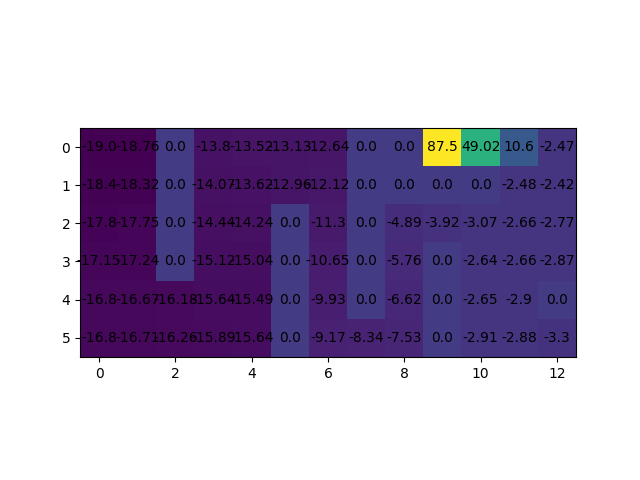
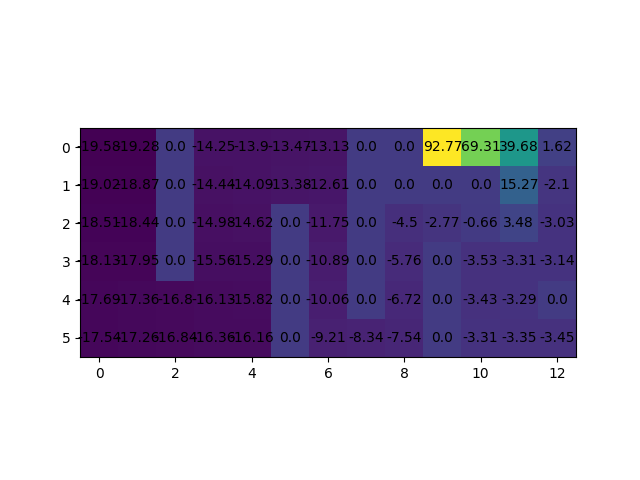
adding and running multirun tests for maze

diff --git a/Q-Learning_Maze/qlearning.py b/Q-Learning_Maze/qlearning.py
@@ -9,6 +9,7 @@ num_episodes = 500
 eps = 0.01
 testing_iter = 1000
 Map = MAP4
+num_runs = 20
 
 
 
@@ -71,60 +72,64 @@ if __name__ == "__main__":
 
     env = GridWorld(Map)
     num_states = env.get_num_states()
-    qlearning = QLearning(num_states, env.get_num_actions(), alpha=alpha)
-    success_rate_list = []
-    first_state_Qs = []
-
     episodes_to_save_Q = [0, 10, 100, 250, 500]
-    episodes_to_save_success_rate = list(range(0, num_episodes+1, 10))
-    for i in range(num_episodes + 1):
+    episodes_to_save_success_rate = list(range(0, num_episodes + 1, 10))
 
-        done = False
-        state = env.reset()
+    success_rate_list = np.zeros((num_runs, len(episodes_to_save_success_rate)))
+    first_state_Qs = np.zeros((len(episodes_to_save_Q), num_runs, num_states))
 
-        first_state_Q = np.max(qlearning.Q[state])
-        first_state_Qs.append(first_state_Q)
+    for run in range(num_runs):
+        print("Run:",run+1)
 
-        max_next_action, _ = optimal_policy(qlearning.Q, state)
-        while not done:
-
-            #Epsilon greedy policy
-            random_action = np.random.choice(env.get_num_actions())
-            action = np.random.choice([max_next_action, random_action], p= [1-eps, eps])
-
-            #Step
-            next_state, reward, done = env.step(action)
-
-            #Q update
-            max_next_action = qlearning.update(state, action, reward, next_state, done)
+        qlearning = QLearning(num_states, env.get_num_actions(), alpha=alpha)
 
 
-            state = next_state
+        for i in range(num_episodes + 1):
 
-        if i in episodes_to_save_Q:
-            currentQ_flattened = np.zeros((num_states))
-            for state in range(num_states):
-                currentQ_flattened[state] = np.max(qlearning.Q[state])
-            currentQ = currentQ_flattened.reshape((env.n_rows, env.n_cols)).round(decimals=2)
+            done = False
+            state = env.reset()
 
-            for (m, l), label in np.ndenumerate(currentQ):
-                plt.text(l, m, label, ha='center', va='center')
-            plt.imshow(currentQ)
-            plt.savefig('results/QFunction/QFunction_After_{}_Episodes'.format(i))
+            max_next_action, _ = optimal_policy(qlearning.Q, state)
+            while not done:
 
-            plt.show()
-            plt.close()
+                #Epsilon greedy policy
+                random_action = np.random.choice(env.get_num_actions())
+                action = np.random.choice([max_next_action, random_action], p= [1-eps, eps])
+
+                #Step
+                next_state, reward, done = env.step(action)
+
+                #Q update
+                max_next_action = qlearning.update(state, action, reward, next_state, done)
 
 
-        if i in episodes_to_save_success_rate:
-            print(i)
-            # evaluate the greedy policy to see how well it performs
-            frac = evaluate_greedy_policy(qlearning, env, testing_iter)
-            success_rate_list.append(frac)
-            print("Finding goal " + str(frac) + "% of the time.")
+                state = next_state
 
-    #This code is for plotting returns of the training policy on map 3
-    plt.plot(range(len(success_rate_list)), success_rate_list)
+            #Recording max qfunction
+            if i in episodes_to_save_Q:
+                first_state_Qs[episodes_to_save_Q.index(i), run] = np.max(qlearning.Q, axis=1)
+
+            #Recording the success rates
+            if i in episodes_to_save_success_rate:
+                # evaluate the greedy policy to see how well it performs
+                frac = evaluate_greedy_policy(qlearning, env, testing_iter)
+                success_rate_list[run][i//10] = frac
+
+    #PLotting average qfunction at each episode in 'episodes_to_save_Q'
+    for i in range(len(episodes_to_save_Q)):
+        currentQ = np.mean(first_state_Qs[i], axis=0).reshape((env.n_rows, env.n_cols)).round(decimals=2)
+
+        for (m, l), label in np.ndenumerate(currentQ):
+            plt.text(l, m, label, ha='center', va='center')
+        plt.imshow(currentQ)
+        plt.savefig('results/QFunction/QFunction_After_{}_Episodes'.format(episodes_to_save_Q[i]))
+
+        plt.show()
+        plt.close()
+
+    # Plotting average returns over all runs
+    success_rate_list_average = np.mean(success_rate_list, axis=0).round(decimals=2)
+    plt.plot(range(len(success_rate_list_average)), success_rate_list_average)
     plt.title('Q-Learning Training')
     plt.ylabel('% Success w/ Optimal Policy')
     plt.xlabel('Iterations in 10\'s')
@@ -132,4 +137,3 @@ if __name__ == "__main__":
 
     plt.show()
     plt.close()
-
